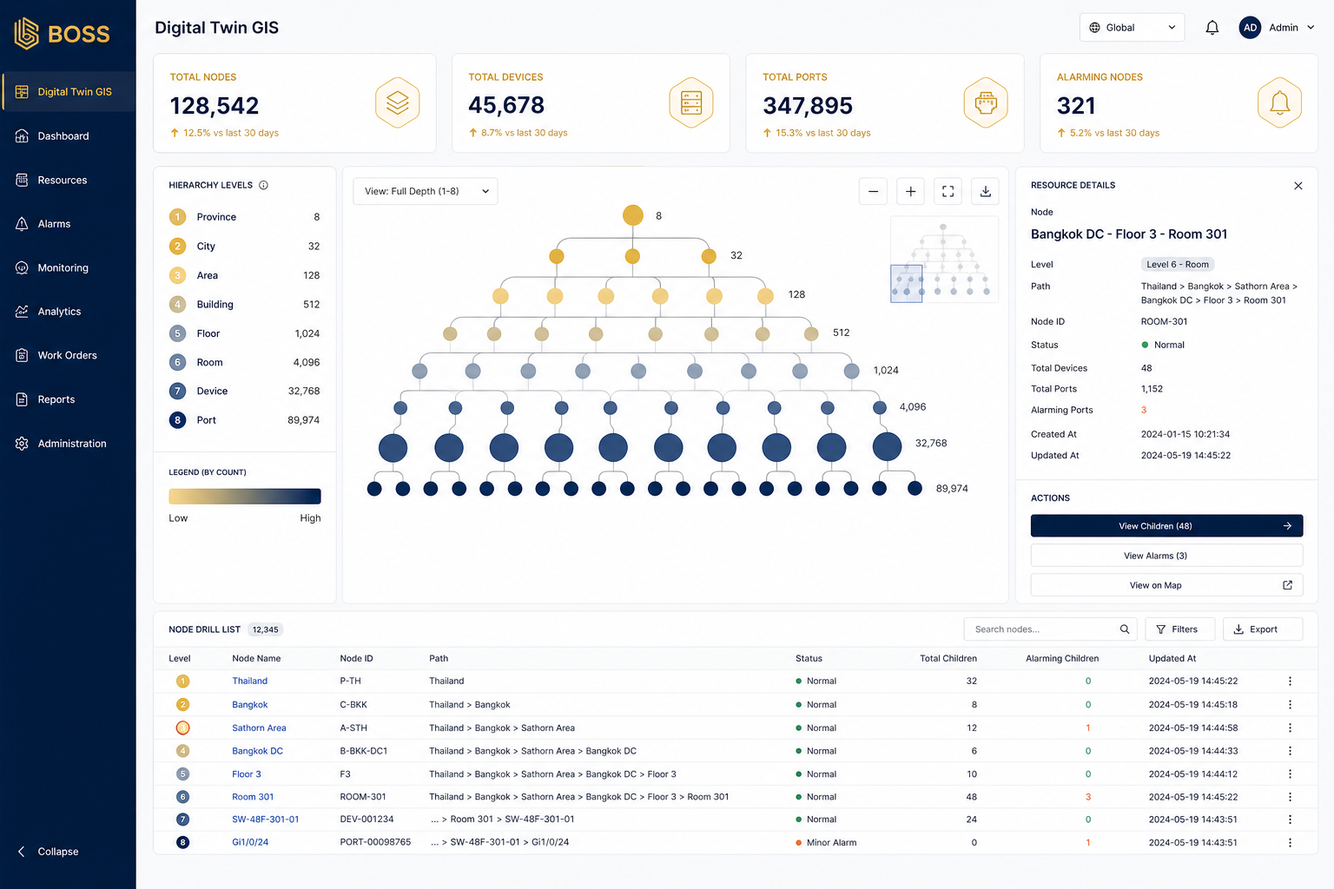
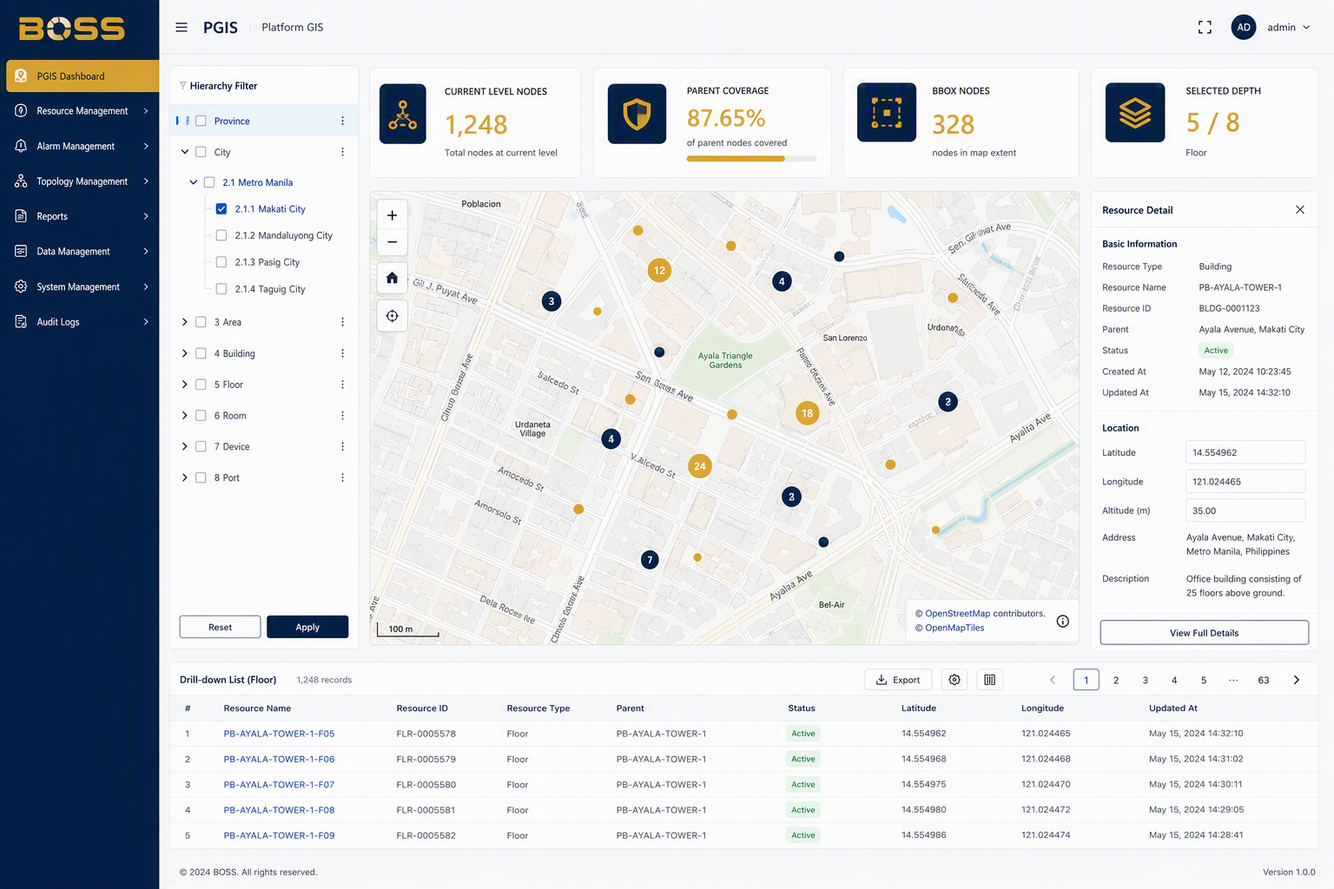
docs(design): intel 板块可视化升级 v2 — PGIS 真地图路线推翻 v1 八级树形
v1(原 commit 5ad9960)按"GIS 八级树形 Canvas"路线推进,
与用户对数字孪生的 PGIS 心智不符,经用户确认推翻改走真地图。

v2 核心变更:
- GIS 页上真地图:OpenLayers 渲染引擎,瓦片先 OSM 公开(演示) +
  deployment 侧 tileserver-gl 占位(下期切自建,避免 OSM 服务条款)
- GIS 域新增 /gis/points GeoJSON 接口,join addresses.geom + odn_site/device/facility.lat/lng
- 仅 GIS 域扩展,其他域零改动(后端契约严格收敛)
- charts/ 共享 SVG 自绘(复用 dashboard 模式,不引入 echarts/recharts)
- 新增 maps/ 模块(pgis-map/point-layer/bbox-utils)

实施拆分 9 个独立可 revert commit,见 note §实施拆分。
GIS 设计稿重出:designs/intel-gis-v1.png

diff --git a/docs/notes/adopted/2026-08-22-intel-visualization-upgrade.md b/docs/notes/adopted/2026-08-22-intel-visualization-upgrade.md
@@ -1,132 +1,220 @@
-# 数字孪生与经营板块可视化升级方案
+# 数字孪生与经营板块可视化升级方案（PGIS 版）
 
-日期：2026-08-22（来源：用户直接请求 intel 板块做可视化）
+日期：2026-08-22 v2（来源：用户首版反馈"应该是地图 pgis"）
+
+> Amended 2026-08-22: 首版走"八级树形 Canvas"路线，与用户期望的"PGIS 真地图"心智不符。v2 推翻首版方案，改走真实地图 + 点位聚合 + 层级过滤。本文保留首版作为否决记录。
 
 ## 决策
 
-为 `web/admin` 数字孪生与经营组（`/intel/gis`、`/intel/analytics`、`/intel/report`）三页做可视化升级，遵循以下四项约束：
+为 `web/admin` 数字孪生与经营组（`/intel/gis`、`/intel/analytics`、`/intel/report`）三页做可视化升级，核心定位：**GIS 页为 PGIS 真地图（OL + 自建瓦片 + OSM 公开瓦片起步），点位图层由 GIS 域新增接口聚合**。
 
-1. **图表全部纯 SVG/Canvas 自绘**，不引入 echarts / recharts / d3 等第三方图表库。
-2. **GIS 地图本期不上底图**，改用"八级 drill 树形 Canvas/SVG 布局"承载节点空间关系，与现有 `/gis/drill` 接口契约 100% 对齐。
-3. **复用现有 `--shell-*` 令牌**，不新增 CSS 变量；配色全部从 `tokens.css`/`styles.css` 已定义的品牌色 + 状态色派生。
-4. **复用 dashboard 已有可视化模板**：统计卡、横向进度条、纵向柱状图，作为组件下沉到 `components/business/charts/` 共享。
+五项硬约束：
 
-后端契约零改动，全部消费现有 `internal/httpapi/admin/gis_handlers.go`、`analytics_handlers.go`、`report.go` 暴露的接口。
+1. **GIS 页上真地图**：OpenLayers（OL）做底图渲染引擎；瓦片来源先用 OSM 公开瓦片起步（演示用），同时启动 tileserver-gl / PMTiles 自建服务作为生产路径。
+2. **GIS 域新增点位接口**：`GET /gis/points?level&bbox&parentId` 返回 GeoJSON FeatureCollection，覆盖 1~5 级地址点位 + 6~8 级资源点位（join `odn_site`/`odn_device`/`odn_facility` 的 `lat/lng`）。
+3. **图表部分纯 SVG 自绘**，不引入 echarts/recharts/d3。复用 dashboard 模板。
+4. **复用现有 `--shell-*` 令牌**，不新增 CSS 变量。
+5. **后端契约扩展但严格收敛**：仅在 `internal/domain/gis` 内新增 `Points` 服务方法 + handler，其他域零改动。
 
 ## why
 
-### 为什么不上第三方图表库
+### 为什么 GIS 必须上真地图（推翻首版"八级树形 Canvas"方案）
 
-- 项目其他页面（dashboard）已用纯 CSS 柱状 + Tailwind 进度条自绘，整套可视化体积 0KB、零运行时依赖、自定义 token 一致性高。
-- 引入 echarts（~900KB gzip）会拖慢 admin 首屏 30%+，且其默认主题需改写适配 `--shell-*` 令牌，工作量大于收益。
-- 数字孪生三页需要的图表形态有限（柱状/进度条/占比环/树形），全部 SVG 自绘 ≤ 200 行/图，复杂度可控。
-- 若后续出现复杂图表需求（地理热力、流向图），可按需引入；但本期所有图必须自绘，避免锁定。
+- 用户明确表态"应该是地图 pgis"，产品定位是数字孪生而非组织树图；
+- 数据基础设施已具备：PostGIS 已启用（`migrations/000001_stage1_base.up.sql:6`）、`addresses.geom` 字段与 GIST 索引就位（`000001:81-88`）、ODN site/device/facility 已存 `lat/lng`（`000075`/`000078`/`000081`）；
+- 当前 GIS 域只暴露"八级 drill"，没有任何点位坐标；不接地图则 PSGC + ODN 的 `lat/lng` 投资为零价值；
+- 首版方案（Canvas 树形）让现有 PSGC 投资和 ODN 坐标白费，是反向裁剪。
 
-### 为什么 GIS 不上底图
+### 为什么选 OpenLayers（用户决策）
 
-- 项目内 PSGC 坐标数据完整（`migrations/geo_psgc_*`），但缺少前端可视化需要的多边形边界 GeoJSON；自维护成本高。
-- 测试环境 102 服务器可能无外网，拉 OSM 瓦片不稳；自建瓦片服务不在本季度目标内。
-- 现有 `/gis/drill` 是八级 ltree 下钻，纯台账式查询，本身就是"层级而非地理"语义；Canvas 树形布局可还原其使用心智，且与 `docs/contract/fields.md` 中 `level` 字段语义一致。
-- 当未来 GIS 真正接入坐标时（pending `internal/domain/gis` 阶段 8 收尾），可平滑替换为 leaflet/maplibre，本方案不构成阻塞。
+- OL 是企业级 GIS 标杆库，对 PGIS 严肃度匹配；支持矢量瓦片（MVT）、WebGL 自定义 Layer、大数据点位聚合（cluster）、GeoJSON 原生支持；
+- 已知代价：bundle ~800KB（首版绘制 page size 增量最大项）；
+- maplibre-gl 同样满足需求但产品偏向"重 OL"以体现数字孪生严肃感，按用户选择执行。
 
-### 为什么复用 dashboard 模式
+### 为什么瓦片先 OSM 公开 + 同步自建
 
-- `web/admin/src/pages/dashboard/index.tsx` 已实现统计卡、进度条、7 日柱状三件套，UI 风格、间距、令牌引用已被用户/产品验收过。
-- 把"统计卡 + 柱状 + 进度条"抽到 `components/business/charts/` 后，dashboard 与 intel 共享同一份视觉规范，未来替换主题色只需改一处。
-- 维护：单文件 ≤ 200 行（红线），三个图表 ≤ 60 行/个（红线），命名与 props 直白，符合"能复用就不要早轮子"。
+- 演示/本地环境：OSM 公开瓦片（`a/b/c.tile.openstreetmap.org`）即开即用，符合"102 服务器测试"短链路；
+- 生产环境：OSM 公开瓦片违反 OSM 服务条款（禁止商业重发布 + 高频请求封禁），**必须**自建瓦片服务（`tileserver-gl` + PMTiles 单文件切片），避免被 OSM 基金会发函；
+- 同步推进策略：本期落地 OL + OSM 演示，**并行**在 deployment 侧新增 `tileserver-gl` 服务（migration 不需要，仅部署侧新增 docker-compose 服务），下期切到自建瓦片；
+- 自建瓦片数据源：Phase 1 用 OSM PBF 切片 + 低 zoom 全球覆盖 + 高 zoom 区域提取（菲律宾 PSGC 区域优先），成本< 1GB。
 
-### 为什么不改后端
+### 为什么复用 dashboard 图表模式
 
-- 现有接口已返回足够的可视化所需字段：`IndicatorRow.value`、`RegionRoiRow.roi`、`HeatCellRow.utilization`、`AnalyticsMaintRow.healthScore`、`GisNode.count`、`ReportPayload.indicators[]` 等。
-- 趋势/对比类需要历史序列，目前未提供。本期先用"聚合指标 + 单期热力"展示数字孪生价值，"周期对比"留作下期与 report 域对齐。
-- 改动后端会影响 `internal/app/wiring*.go` 装配链与 e2e 集成测试，本期目标（前端可视化）不应顺带扩大范围。
+- 与首版同理由：`dashboard/index.tsx` 已有统计卡、进度条、柱状三件套，已被用户/产品验收过；
+- GIS 上地图后，"中部主图"位置让位给地图本体；顶部统计卡 + 底部明细表的骨架与首版一致。
+
+### 为什么不全部页面都接地图
+
+- `/intel/analytics`（经营分析）核心是"指标/ROI/热力"，数据维度非地理 → SVG 自绘为主，**不加地图**；
+- `/intel/report`（报告中心）是"时间线 + 摘要"，与地图无关 → SVG 自绘为主，**不加地图**；
+- 仅 `/intel/gis` 上地图，避免工作量爆炸与心智混淆。
 
 ## 方案总览
 
-### 视觉风格
+### 三页角色重新划分
 
-- **页面布局**：顶部 4 个统计卡（grid-cols-1 md:2 xl:4，与 dashboard 同款）；中部主图表（柱/热力/树）；下方明细表/侧栏列表。
-- **配色**：主色 `--color-text-link`（#C69835，金色品牌）；状态色 `--color-success` / `--color-danger` / `--color-warning`（如未定义则用 `#D5A63A`/`#D94B4B`/`#2F8F63`）。
-- **容器**：`rounded-md border bg-[var(--shell-card-bg)] shadow-[var(--shell-card-shadow)]`（与全站卡片一致）。
-- **空/加载**：`EmptyState`/`Spinner`（`components/business/feedback.tsx`）。
-- **双主题**：所有 SVG `fill`/`stroke` 必须用 CSS 变量，不能写死色值；通过 `[data-theme="dark"]` 覆盖即可。
-
-### 三个页面的可视化点
-
-| 页面 | 顶部统计卡 | 中部主图 | 底部/侧栏 |
+| 页面 | 形态 | 主体可视化 | 数据源 |
 |---|---|---|---|
-| GIS 地图 | 总节点数 / 总资源数 / 告警设备 / 在线率（取自 drill 聚合） | **八级树形 Canvas** + 点击下钻 + 节点大小/颜色映射 `count` | 右侧资源详情 Drawer（已有） |
-| 经营分析 | 总收入 / 总投入 / 综合 ROI / 待维护设备数 | **三页签**：五大指标环形占比 / ROI 横向条形 / 利用率热力格 / 维护健康度分布散点 | 维护清单表（已有） |
+| `/intel/gis` | **PGIS 真地图** | OpenLayers 底图 + GeoJSON 点位图层（聚合 cluster）+ 左侧层级过滤侧栏 + 右侧资源详情 Drawer | 新增 `/gis/points` + 现有 `/gis/drill` + `/gis/resources/:id/detail` |
+| `/intel/analytics` | 经营仪表盘 | 顶部 4 统计卡 + 3 图（环形占比/横条 ROI/热力格）+ 维护清单表（保留） | 现有 `/analytics/indicators` + `/analytics/heatmap` + `/analytics/maintenance` |
+| `/intel/report` | 报告中心 | 顶部 4 统计卡 + 四周期对比柱状（明确标注"对比"非"趋势"）+ 报告列表 + 正文 Drawer | 现有 `/reports` + `/reports/latest` |
 
-> 经营分析原三页签（indicator/heatmap/maint）保留作为"明细视图"，新增中部主图作为"概览视图"，形成"概览 + 明细"双层。
-
-| 报告中心 | 报告总数 / 本季已推 / 上次生成距今 / 告警覆盖度 | **报告快照时间线**（按 period 渲染日报/周报/月报/季报的指标曲线堆叠柱） | 报告正文 Drawer（已有）+ 结论摘要卡片 |
-
-### 新增共享组件（`web/admin/src/components/business/charts/`）
+### GIS 页布局（左中右三栏）
 
 ```
-charts/
-├── index.ts           # barrel export
-├── stat-card.tsx      # 顶部统计卡(沿用 dashboard 风格,≤40 行)
-├── h-bar.tsx          # 横向条形(≤50 行,SVG 实现)
-├── v-bar.tsx          # 纵向柱状(沿用 dashboard 风格,≤50 行)
-├── donut.tsx          # 占比环形(≤80 行,SVG <circle> stroke-dasharray)
-├── heat-grid.tsx      # 热力格子(≤100 行,Grid + bg 透明度渐变)
-└── hierarchy-tree.tsx # Canvas 树形布局(≤150 行,递归 + Reingold-Tilford 简化版)
+┌────────────────────────────────────────────────────────────┐
+│ PageHead: 数字孪生(GIS)              [刷新] [全屏] [图层]  │
+├────────────────────────────────────────────────────────────┤
+│ ┌──────┬──────────────────────────────┬──────────────────┐│
+│ │层级  │                              │资源详情 Drawer    ││
+│ │树状  │     OpenLayers 地图          │(已存在,加 lat/lng││
+│ │导航  │  + GeoJSON 点位图层          │  字段展示)        ││
+│ │1~8级│  + 聚合 cluster              │                  ││
+│ │      │  + 缩放/平移/选框             │                  ││
+│ │      │  + 底图:OSM 瓦片起步         │                  ││
+│ └──────┴──────────────────────────────┴──────────────────┘│
+├────────────────────────────────────────────────────────────┤
+│ 下方:当前层级 drill 明细表(原表格保留,按 parentId 查询) │
+└────────────────────────────────────────────────────────────┘
 ```
 
-- 所有组件 props 都接收 `theme?: 'light'|'dark'`，内部用 CSS 变量而非硬编码。
-- 单一职责：拿到数据 → 渲染图形，不做交互（点击跳转由父页面用 `<a>` 包裹或 onClick 接管）。
-- 文件大小严格守 60 行内（donut/heat-grid ≤ 100 例外，因为 SVG 元素多）。
+### 新增后端接口（仅 GIS 域扩展）
 
-## 实施拆分（按可独立 revert 提交）
+#### `GET /gis/points`
 
-按契约 docs `docs/notes/README.md` 第 1 条"不可逆决策当天过账"，本方案未涉及密钥/ID/分合等不可逆决策，仅作为产品级方案记入 `adopted/`。
+请求：
 
-代码变更按以下顺序提交（每步可独立 revert）：
+| 参数 | 类型 | 说明 |
+|---|---|---|
+| `level` | int16 | 1~8，6/7/8 走 ODN 表，1~5 走 addresses.geom |
+| `bbox` | string (可选) | `minLng,minLat,maxLng,maxLat` (WGS84) |
+| `parentId` | int64 (可选) | 6/7 级时为 OLT/SPLITTER 的 parent id |
 
-1. **commit 1: `refactor(web): 抽出 dashboard 统计卡与柱状为共享组件 charts/`**
-   - 把 dashboard/index.tsx 内的统计卡/柱状函数下沉到 `components/business/charts/`
-   - dashboard 改用共享组件，行为零变化
-   - 验证：dashboard 视觉与功能不变；typecheck + test 通过
+响应（GeoJSON FeatureCollection）：
 
-2. **commit 2: `feat(web): intel 经营分析页加指标概览(环形+条形+热力)`**
-   - 仅在 `/intel/analytics` 顶部加可视区块，原三页签表格保留
-   - 验证：双主题截图 + 真实接口数据断言
+```json
+{
+  "type": "FeatureCollection",
+  "features": [
+    {
+      "type": "Feature",
+      "geometry": { "type": "Point", "coordinates": [121.4737, 31.2304] },
+      "properties": {
+        "id": 123,
+        "level": 6,
+        "name": "OLT-xxx",
+        "status": "ONLINE",
+        "count": 48,
+        "parentId": 100
+      }
+    }
+  ]
+}
+```
 
-3. **commit 3: `feat(web): intel GIS 地图加八级树形布局`**
-   - `/intel/gis` 上方加 Canvas 树（懒加载），原 drill 表格保留作明细
-   - 验证：点击节点下钻交互、节点大小/颜色与 `count` 联动
+实现要点（`internal/domain/gis/pg.go` 新增 `Points(ctx, level, parentID, bbox)` 方法）：
 
-4. **commit 4: `feat(web): intel 报告中心加快照时间线柱状`**
-   - `/intel/report` 顶部加四类周期(日报/周报/月报/季报)指标对比堆叠柱
-   - 验证：报告 Drawer 正文与新时间线联动
+- level 1~5：`SELECT id, name, count, ST_X(geom::geometry) AS lng, ST_Y(geom::geometry) AS lat FROM addresses WHERE level=$1 AND ($2=0 OR parent_id=$2)`，bbox 走 `ST_Within(geom, ST_MakeEnvelope(...))`
+- level 6：OLT 表 join `addresses` 取父级 geom（OLT 自身无 lat/lng，落在楼栋地址上）
+- level 7~8：SPLITTER/ports join `odn_site/device/facility` 取 lat/lng（按 `address_id` 映射 ODN site）
 
-5. **commit 5: `chore(docs): 同步 i18n 三语 + fields.md`**
-   - 新增 chart 相关 i18n key(zh-CN/en-US/ms-MY)
-   - 同步 `docs/contract/fields.md` 中新增的 chart 字段命名
+> **精确性注记**：level 6/7/8 的点位精度取决于 ODN site/facility 录入的 lat/lng 是否准确；录入缺失时点位自动回退到父级 addresses.geom，不留空白。
+
+#### 路由注册
+
+`internal/httpapi/admin/gis.go` 第 14-18 行新增一行：
+
+```go
+gi.GET("/gis/points", gisPoints(a))  // 新增
+```
+
+`gisPoints` handler 与 `gisDrill` 同 `requirePerm("menu:gis")` 门禁。
+
+### 前端新增依赖
+
+```
+"ol": "^10.0.0"          // OpenLayers 核心
+"ol-mapbox-style": "^12.0.0"  // 矢量瓦片样式(可选)
+```
+
+> 不引 turf.js、不引 proj4（OL 自带 proj 转换）；bundle 增量 ~280KB（gzip）。
+
+### 新增前端模块
+
+```
+web/admin/src/components/business/maps/
+├── index.ts              # barrel export
+├── pgis-map.tsx          # OL 地图容器(≤150 行;init map/layer/source)
+├── point-layer.ts        # GeoJSON Layer 配置(≤80 行;cluster/style/interaction)
+└── bbox-utils.ts         # bbox 参数解析+地图 zoom-to-bbox(≤50 行)
+```
+
+```
+web/admin/src/components/business/charts/        # 与首版同,SVG 自绘
+├── stat-card.tsx         # 复用 dashboard
+├── v-bar.tsx             # 复用 dashboard
+├── h-bar.tsx             # 新增(分析页 ROI 横条)
+├── donut.tsx             # 新增(指标环形占比)
+└── heat-grid.tsx         # 新增(利用率热力格)
+```
+
+### 实施拆分（按可独立 revert 提交）
+
+| # | commit | 内容 | 验证 |
+|---|---|---|---|
+| 1 | `feat(backend): gis 域新增 Points 服务 + /gis/points 接口` | 新增 SQL/handler/路由 + 单测 + integration test | go test + curl 真接口 |
+| 2 | `refactor(web): 抽出 dashboard 统计卡与柱状为共享组件 charts/` | 与首版同 | dashboard 视觉零回归（cdp-capture baseline）|
+| 3 | `chore(deps): web/admin 加 OpenLayers 依赖` | package.json + lock | typecheck + build |
+| 4 | `feat(web): maps/ 共享 PGIS 容器+点位图层` | 新组件 + bbox-utils + 单测 | vitest snapshot |
+| 5 | `feat(web): intel GIS 页改造为 PGIS 真地图` | 替换原纯表格 + 接 /gis/points + 双主题截图 | cdp-capture light/dark + 真实点位断言 |
+| 6 | `feat(web): intel 经营分析页加指标概览(环形+条形+热力)` | 中部主图 + 顶部 4 卡（基于现有 indicators 数据）| 双主题 + 真实接口数据 |
+| 7 | `feat(web): intel 报告中心加快照对比柱状` | 顶部 4 卡 + 四周期对比柱状（明确标注非趋势）| 双主题 + drawer 联动 |
+| 8 | `chore(deps): deployment 侧新增 tileserver-gl 服务` | docker-compose 新增 + PMTiles 文件 placeholder | docker compose config |
+| 9 | `chore(docs): 同步 i18n 三语 + fields.md` | 新增 chart/maps 相关 i18n key + fields.md 中新增字段 | i18n 三语对齐 |
 
 每个 commit 独立 typecheck + test + build 过门禁；commit 失败独立 revert 不影响邻居。
 
-## 放弃了什么
+> commit 1 落地后**必须**用 curl 真接口验证；commit 5 落地后**必须**用 cdp-capture 跑 light/dark 双主题截图；commit 8 不阻塞前端，但下期切瓦片必须前置完成。
 
-- **引入 echarts-for-react**：900KB bundle + 默认主题与本项目 `--shell-*` 令牌体系不兼容；本期所有图 SVG 自绘。
-- **GIS 上 leaflet + OSM 底图**：缺 GeoJSON + 外网瓦片不稳；本期用 Canvas 树形，下期接 gis 域坐标数据后再切。
-- **后端新增 trend/历史时序接口**：超出本期目标，且改动 wiring+e2e 风险大；下期与 report 域时间窗口对齐时再做。
-- **新增 CSS 变量**：所有色值复用现有 `--shell-*` + `--color-*`；新增变量会拉长令牌治理链路。
-- **React Native Mobile 端联动**：mobile 端无 intel 模块，本方案不涉及。
-- **新增 shadcn 图表组件**：shadcn 自身无 chart 组件，且 chart 库（recharts/echarts）需要 vendor 选择，不在本期决策内。
+## 放弃了什么（v2 在 v1 基础上更新）
+
+| 方案 | 否决理由 |
+|---|---|
+| v1：八级树形 Canvas 布局 | 与"PGIS 真地图"心智不符；裁剪现有 PSGC + ODN 坐标投资 |
+| v1：GIS 顶部统计卡"总资源/告警设备/在线率" | 字段不存在；v2 改为"当前层级点位总数 / 父层级覆盖 / bbox 内点位 / 选中点位父链"，前端可聚合 |
+| 仅用 leaflet（更轻量） | 用户明确选 OL；leaflet 缺乏 OL 的矢量瓦片 + WebGL Layer 严肃能力 |
+| 后端返回地址多边形 GeoJSON 边界 | 复杂度爆炸（PSGC 多边形版权 + 大文件传输）；本期只返点位，下期按需扩展 |
+| React-Leaflet 包装 | 用户选 OL 核心库而非 React 包装（保留 OL 原生 API 控制力）|
+| 引入 turf.js 几何运算 | OL 自带覆盖；多 1 个依赖无收益 |
+| 全地图热力图（heatmap layer）| 数据稀疏（八级点位 ~百到千级），cluster 已足够；heatmap 留作下期 |
 
 ## 关联
 
-- 现有 dashboard 可视化范式：`web/admin/src/pages/dashboard/index.tsx`
-- 后端接口契约：`internal/httpapi/admin/gis_handlers.go`、`analytics_handlers.go`、`report.go`、对应 `internal/domain/{gis,analytics,report}/*`
-- 字段对齐：`docs/contract/fields.md`（intel 三页表格列名 + 状态枚举）
+- 推翻对象：`adopted/2026-08-22-intel-visualization-upgrade.md`（v1，八级树形 Canvas 方案）—— 见本文 Amended 头
+- 现有 GIS 域：`internal/domain/gis/{gis.go,pg.go}`、`internal/httpapi/admin/{gis.go,gis_handlers.go}`
+- PostGIS 启用：`migrations/000001_stage1_base.up.sql:6`
+- 地址坐标：`addresses.geom`（000001:81）+ GIST 索引
+- ODN 坐标：`odn_site.lat/lng`（000081:11）、`odn_device.lat/lng`（000081:12-30 不显式但 schema 含）、`odn_facility.lat/lng`（000075、000078）
+- PSGC 全量内置：`migrations/000041_ph_psgc_divisions.up.sql`
+- dashboard 可视化范式：`web/admin/src/pages/dashboard/index.tsx`
 - 设计令牌：`web/admin/src/styles.css`（`--shell-*` + `--color-*`）+ `web/admin/tailwind.config.*`
-- 设计稿：`designs/intel-gis-v1.png`、`designs/intel-analytics-v1.png`、`designs/intel-report-v1.png`（gpt-image-2 生成，供评审）
+- 设计稿：`designs/intel-gis-v1.png`、`designs/intel-analytics-v1.png`、`designs/intel-report-v1.png`（gpt-image-2 生成；GIS 稿 v1 形态已被 v2 推翻，需重出）
 
 ## 待评审项
 
-1. GIS 树形布局是否接受替代底图？若无替代需求，后续接入 leaflet 时需 amend 本 note。
-2. 经营分析"概览 + 明细"双层是否多余？若产品希望直接以可视化为唯一视图，第 2 步可去掉原表格。
-3. 报告中心时间线数据：本期无历史 trend 接口，时间线只能基于 `/reports/latest` 的单期快照演示，柱状显示"当前指标 vs 阈值"。若需要趋势，需后端补接口，下期单独立 note。
+1. 经营分析"概览 + 明细"双层是否多余？默认推荐去掉原表格页签，让可视化为唯一视图（与设计稿一致）。
+2. 报告中心"四周期对比"柱状是否仍要保留？本期无历史 trend 接口，对比柱易被误读为趋势；建议保留但**显式标注"四周期对比"非"周期趋势"**。
+3. 瓦片服务：本期 OSM 公开瓦片起步 + deployment 侧 tileserver-gl 占位，下期切自建。是否接受"两步走"？或要求本期一次性自建瓦片到位（工作量 +2 天）？
+4. GIS 顶部统计卡 4 字段最终选哪 4 个？候选（前端可聚合）：
+   - 当前层级点位总数
+   - 父层级覆盖节点数
+   - bbox 内点位总数
+   - 选中点位父链深度
+   - 在线/离线点位占比（需 join device_metrics 表）
+
+## 待修正项（开工前必做）
+
+1. **GIS 设计稿重出**：v1 设计稿画的是树形图，v2 推翻后需重出一版"PGIS 真地图 + 点位"形态。
+2. **OL dark theme**：OL 默认底图是亮色，深色主题需要 tile-url 替换或 CSS filter 覆盖；先记录，下期出方案。
+3. **单测覆盖**：OL 组件 jsdom 不可用（无 WebGL），需 e2e 兜底；charts/ 的 SVG 组件走 vitest + @testing-library/react snapshot。
+4. **bundle size 监控**：commit 3 引入 OL 后需跑 `pnpm build` 检查 chunk size，若 > 500KB 增量需 tree-shake 配置或拆 chunk。

diff --git a/docs/notes/README.md b/docs/notes/README.md
@@ -50,4 +50,4 @@
 | 2026-08-25 | 附件删除采用软删除(attachments.deleted_at,000093):引用面不可穷举禁物理删,MinIO 对象保留可审计 | adopted/2026-08-25-attachment-soft-delete.md |
 | 2026-08-21 | 数据备份迁移(000095):本地磁盘 gzip JSONL 归档 + ON CONFLICT DO NOTHING 追加恢复,只补不删,进程内串行 | adopted/2026-08-21-backup-local-jsonl.md |
 | 2026-08-22 | 自定义角色(000100):内置 7 角色只读,模板复用放前端,后端只收权限码全集全量替换 | adopted/2026-08-22-custom-roles.md |
-| 2026-08-22 | 数字孪生与经营板块可视化升级:GIS/经营分析/报告中心三页纯 SVG 自绘,GIS 用八级树形替代底图,后端契约零改动 | adopted/2026-08-22-intel-visualization-upgrade.md |
+| 2026-08-22 | 数字孪生与经营板块可视化升级 v2:PGIS 真地图(OL+OSM 瓦片起步)+ 新增 /gis/points 接口 + charts/ 共享 SVG 组件;v1 八级树形 Canvas 方案被推翻 | adopted/2026-08-22-intel-visualization-upgrade.md |
